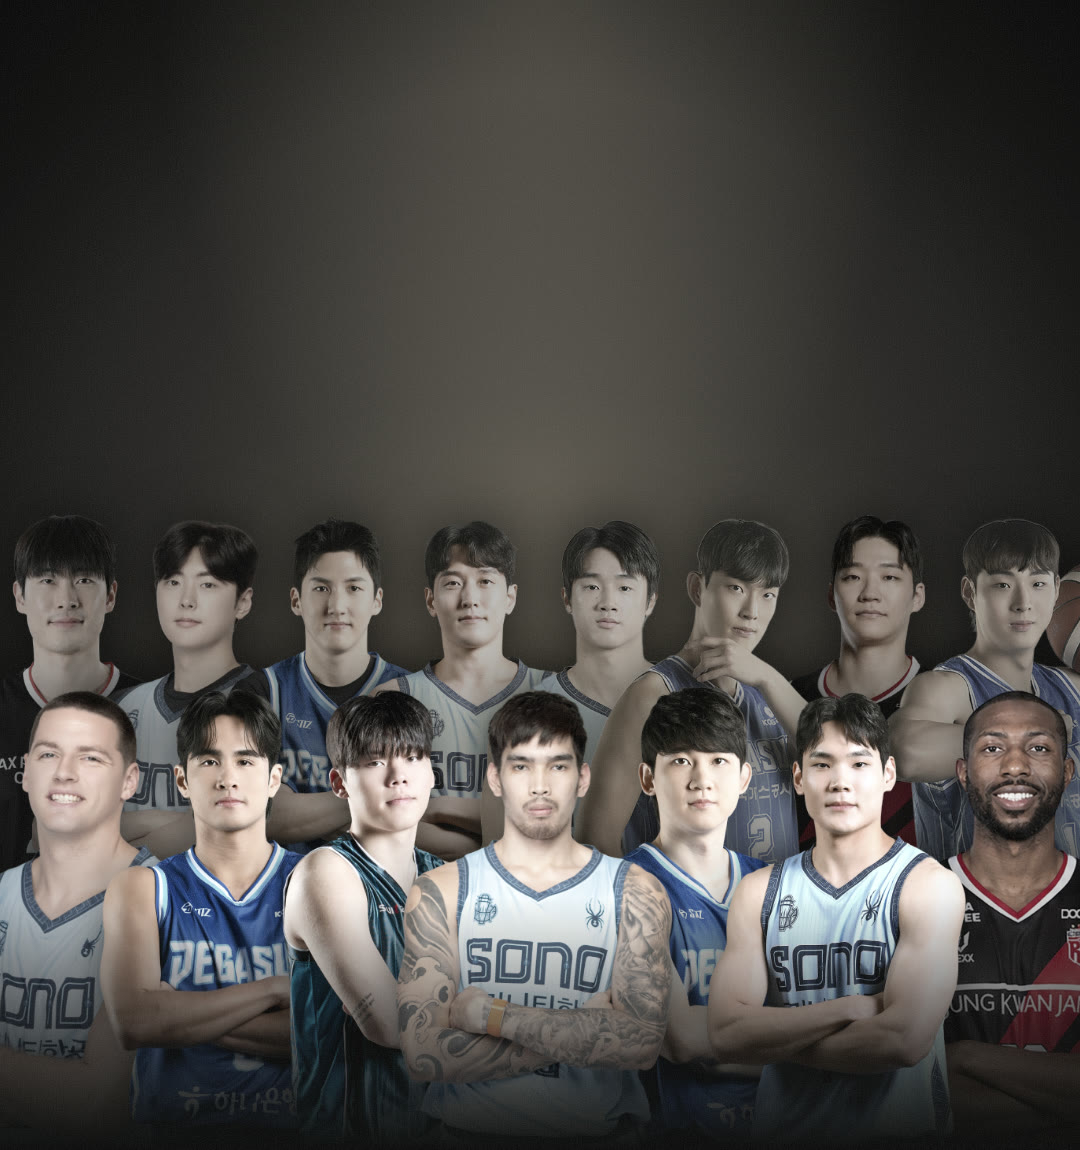
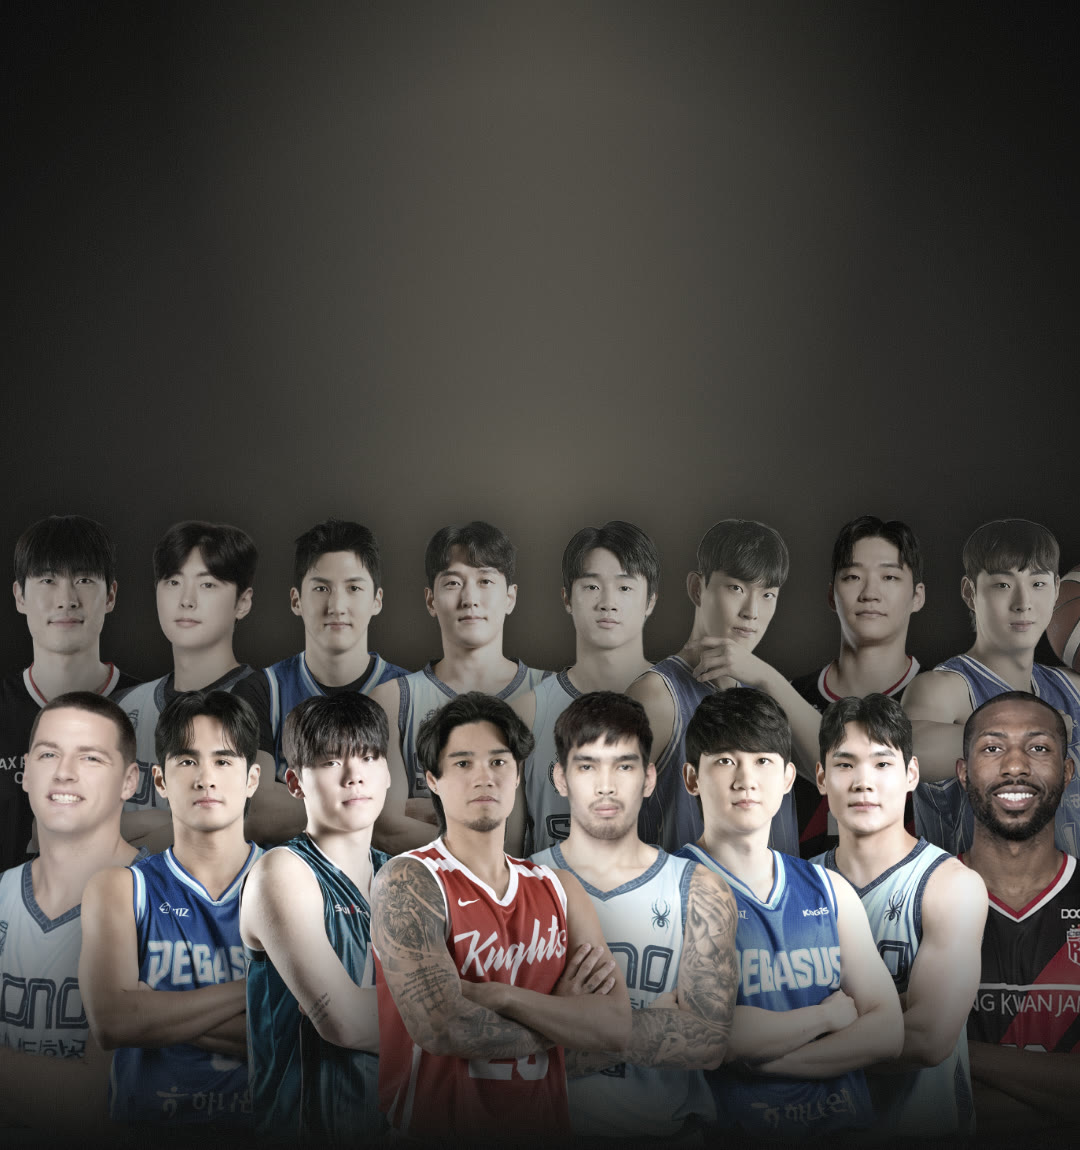
home: add Arvin Tolentino to the main group photo (16 players)

Changed region(s): [[0.0611, 0.5783, 0.9167, 0.9739]]

diff --git a/home.html b/home.html
@@ -125,7 +125,7 @@ footer{padding:0 24px 40px;text-align:center;color:#8f8f8f;font-size:12px;letter
 <body>
 <main>
 <section class="hero">
-  <picture><source media="(max-width:640px)" srcset="photos/hero_m.jpg" width="1080" height="1150"><img src="photos/hero_pc.jpg" width="1920" height="860" alt="리고러코리아 소속 KBL 선수 15명" fetchpriority="high"></picture>
+  <picture><source media="(max-width:640px)" srcset="photos/hero_m.jpg" width="1080" height="1150"><img src="photos/hero_pc.jpg" width="1920" height="860" alt="리고러코리아 소속 KBL 선수 16명" fetchpriority="high"></picture>
   <div class="txt">
     <div class="kicker">RIGORER KOREA · SINCE 2020</div>
     <h1>FROM STREET TO KBL,<br class="hm"> AND <span>NEXT?</span></h1>
